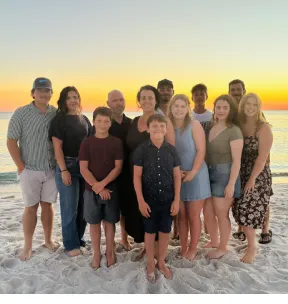
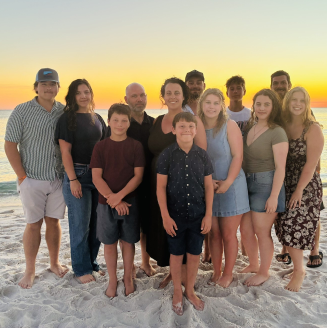
Finished

diff --git a/Lessons/Wk10/portfolio.html b/Lessons/Wk10/portfolio.html
@@ -21,35 +21,39 @@
 </header>
 
 <body>
-    <div id="projectGroup">
-        <article class="projectContainer">
-            <h2 class="projectName">GitHub Profile</h2>
-                <p class="projectContent">
-                    <a href="https://github.com/JonathanMillen" class="link">My GitHub </a>
-                    This is my GitHub, where I keep some of my projects. 
-                    Someday, I hope to have it filled with fun projects I have completed.
-                </p>
-        </article>
+     <div id="projectGroup">
+            <article class="projectContainer">
+                <img src="images/project 1.webp" alt="Keyboard with the letter G focused" class="projectImage">
+                <h2 class="projectName">GitHub Profile</h2>
+                    <p class="projectContent">
+                        
+                        <a href="https://github.com/JonathanMillen" class="link">My GitHub </a>
+                        This is my GitHub, where I keep some of my projects. 
+                        Someday, I hope to have it filled with fun projects I have completed.
+                    </p>
+            </article>
 
-        <article class="projectContainer">
-            <h2 class="projectName">Light/Dark mode</h2>
-                <p class="projectContent">
-                 <a href="/Wk6/index.html" class="link">Light/Dark</a>   
-                    This was a fun project where we learned about switching between light and dark mode. 
-                    We used the .root setting to create a color profile that we could change using the browser settings.
-                </p>
-        </article>
+            <article class="projectContainer">
+                 <img src="images/project2.jpg" alt="Ying and Yang symbols with a ladys face in the middle" class="projectImage">
+                <h2 class="projectName">Light/Dark mode</h2>
+                    <p class="projectContent">
+                    <a href="/Wk6/index.html" class="link">Light/Dark</a>   
+                        This was a fun project where we learned about switching between light and dark mode. 
+                        We used the .root setting to create a color profile that we could change using the browser settings.
+                    </p>
+            </article>
 
-        <article class="projectContainer">
-            <h2 class="projectName">Product Card</h2>
-                <p class="projectContent">
-                    <a href="/Wk8/index.html" class="link">Product Card Project</a>
-                    This was a fun but challenging project. 
-                    The pictures were not sized correctly, so I had trouble getting everything to line up properly.
-                    This is where Photoshop would have come in handy.
-                </p>
-        </article>
-    </div>
+            <article class="projectContainer">
+                 <img src="images/Project 3.png" alt="Hand holding a card" class="projectImage">
+                <h2 class="projectName">Product Card</h2>
+                    <p class="projectContent">
+                        <a href="/Wk8/index.html" class="link">Product Card Project</a>
+                        This was a fun but challenging project. 
+                        The pictures were not sized correctly, so I had trouble getting everything to line up properly.
+                        This is where Photoshop would have come in handy.
+                    </p>
+            </article>
+        </div>
 
 </body>
 <footer class="footer">

diff --git a/Lessons/Wk10/styles.css b/Lessons/Wk10/styles.css
@@ -107,15 +107,32 @@ body {
   right: .2rem;
 }
 
+.projectImage {
+    width: 60%;
+    padding: 5px 5px 5px 5px;
+    height: auto;
+    float: left;
+    filter:grayscale(100%)
+}
+
+.projectImage:hover {
+    transform: scale(1.15);
+    width: 60%;
+    padding: 5px 5px 5px 5px;
+    margin: 5px 5px 5px 5px;
+    height: auto;
+    float: left;
+    filter:grayscale(0%)
+}
+
+
+
 .image {
   
-  margin: 20px 20px 20px 40px;
-  width: 30%;
+  margin: 40px 40px 40px 80px;
+  width: 40%;
   height: auto;
   border-radius: 10px;
- 
-  
-  
 }
 
 #mainGroup {
@@ -207,7 +224,7 @@ body {
   padding: 15px;
   border: 2px var(--border-color);
   background-size: 20%;
-  background-image: url(/practice/image/moroccan-flower-dark.webp);
+  background-image: url(images/moroccan-flower-dark.webp);
   background-repeat: repeat;
 
 }

diff --git a/Lessons/practice/index.html b/Lessons/practice/index.html
@@ -9,9 +9,9 @@
     
 
 <picture>
-    <source media="(max-width:1024px)" srcset="image/projectcrop.webp" type="image/webp">
-    <source media="(min-width:1025px)" srcset="image/project.webp" type="image/webp">
-    <img src="practice/image/project.webp" alt="Description of the image">
+    <source media="(max-width:1024px)" srcset="qimage/projectcropq.webp" alt="2026 Millen Family photo at the beach with sunset on the horizon cropped" type="image/webp">
+    <source media="(min-width:1025px)" srcset="qimage/project.webpq" alt="2026 Millen Family photo at the beach with sunset on the horizon" type="image/webp">
+    <img src="image/New Project.webp" alt="Description of the image">
 </picture>  
 
     <div id="projectGroup">

diff --git a/Lessons/Wk10/index.html b/Lessons/Wk10/index.html
@@ -19,9 +19,16 @@
         </div>
     </nav>
 
-    <div>
+<picture class="image">
+    <source media="(max-width:1024px)" srcset="images/projectcropa.webp" alt="2026 Millen Family photo at the beach with sunset on the horizon cropped" type="image/webp">
+    <source media="(min-width:1025px)" srcset="images/projecta.webp" alt="2026 Millen Family photo at the beach with sunset on the horizon" type="image/webp">
+    <img src="images/New Project.webp" alt="2026 Millen Family photo at the beach with sunset on the horizon cropped">
+</picture>
+
+
+    <!-- <div>
         <img class="image" src="images/family pic resize.jpg" alt="Family Photo">
-    </div>
+    </div> -->
 
 
 
